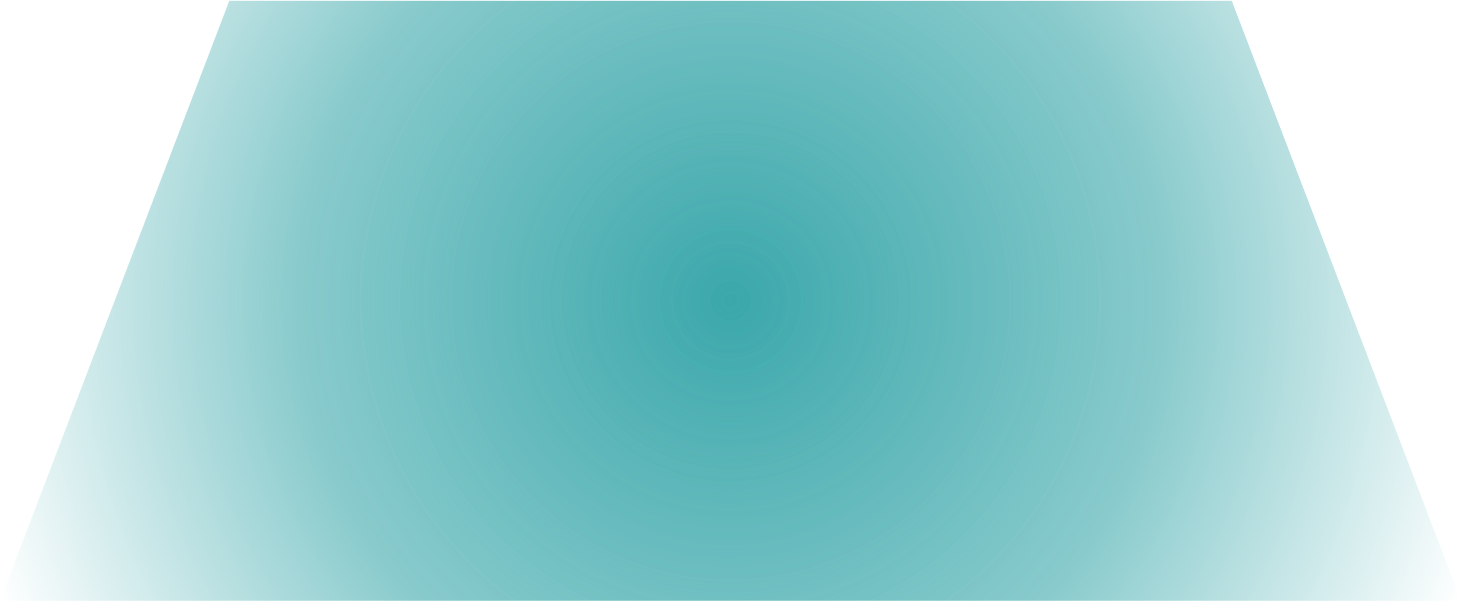
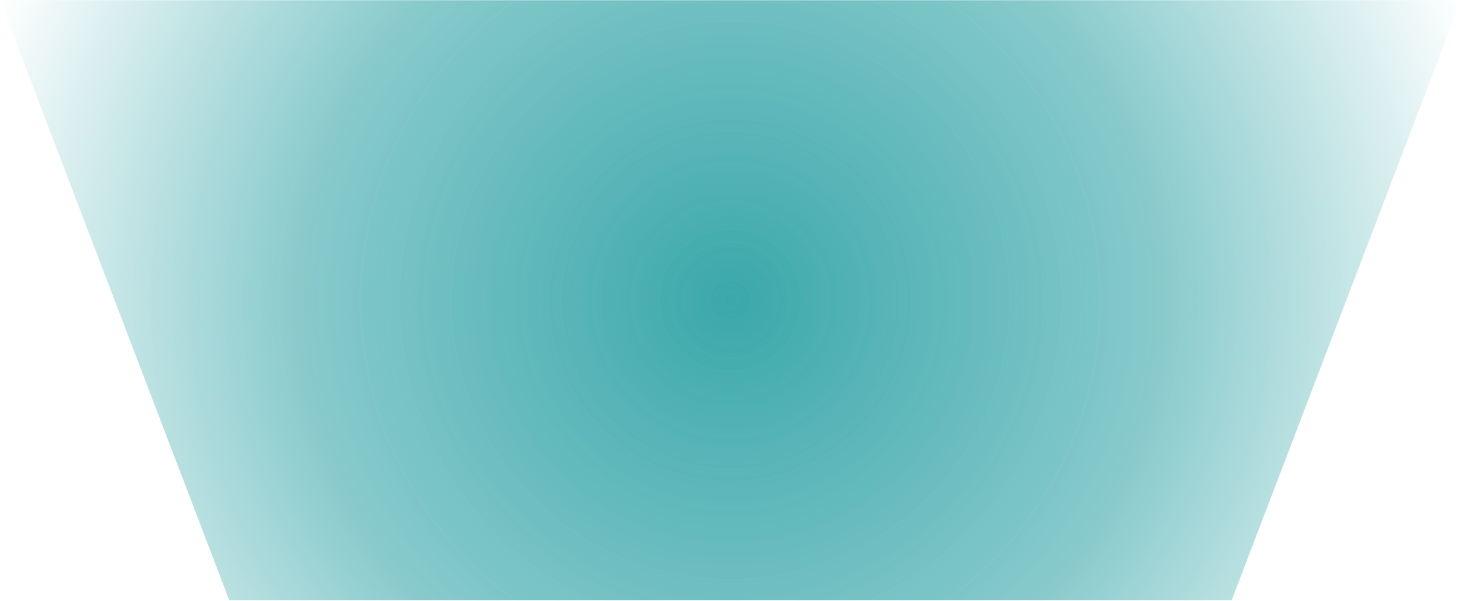
修复提示框布局

Changed region(s): [[0.0308, 0.5092, 0.9856, 1.0], [0.8316, 0.0, 0.9856, 0.4792], [0.0308, 0.0, 0.154, 0.4792]]

diff --git a/src/main/resources/static/js/login.js b/src/main/resources/static/js/login.js
@@ -2,6 +2,9 @@ var url = "http://localhost:7004";
 function reg() {
     window.location.href = url + "/register";
 }
+function tk() {
+    window.location.href = url + "/terms";
+}
 function checkEmail(s) {
     var re = /^(\w-*\.*)+@(\w-?)+(\.\w{2,})+$/;
     if (re.test(s)) return true;
@@ -37,7 +40,7 @@ function submit() {
                 fail(result.message);
                 return;
             }
-            $("#succ").animate({ left: "+=200%" }, "1s");
+            $("#succ").animate({ left: "+=200%" }, "2s");
             setTimeout(function () {
                 window.location.href = url;
             }, 1000);
@@ -63,7 +66,7 @@ function forget() {
                 fail(result.message);
                 return;
             }
-            $(".forg").animate({ top: "-=37%" }, "1s");
+            $(".forg").animate({ top: "+=37%" }, "1s");
             return;
         },
     });

diff --git a/src/main/resources/static/css/login.css b/src/main/resources/static/css/login.css
@@ -103,7 +103,7 @@ input:focus {
     height: 37%;
     width: 100%;
     position: relative;
-    top: 100%;
+    top: -74%;
     background-position: center, center;
     background-size: cover;
 }
@@ -124,4 +124,16 @@ input:focus {
     left: -100%;
     background-position: left, center;
     background-size: cover;
+}
+#tk {
+    position: absolute;
+    display: inline;
+    top: 95%;
+    left: 2%;
+    color: white;
+}
+#tk:hover {
+    cursor: pointer;
+    color: #f07d58;
+    text-decoration: underline;
 }

diff --git a/src/main/resources/templates/login.html b/src/main/resources/templates/login.html
@@ -153,6 +153,9 @@
             >
                 <div id="forg-cont">收到，请检查您的收件箱和垃圾邮件</div>
             </div>
+            <div id="tk" onclick="tk()">
+                使用本站，代表您已阅读并同意我们的服务条款
+            </div>
         </div>
     </body>
 </html>

diff --git a/src/main/resources/templates/terms.html b/src/main/resources/templates/terms.html
@@ -1,0 +1,10 @@
+<!DOCTYPE html>
+<html lang="en" xmlns:th="http://www.thymeleaf.org">
+    <head>
+        <meta charset="UTF-8" />
+        <title>imikuLive - 服务条款</title>
+    </head>
+    <body>
+        测试条款
+    </body>
+</html>

diff --git a/src/main/java/fun/imiku/live/controller/PageController.java b/src/main/java/fun/imiku/live/controller/PageController.java
@@ -16,4 +16,9 @@ public class PageController {
     public String loginPage() {
         return "login";
     }
+
+    @RequestMapping("/terms")
+    public String termsPage() {
+        return "terms";
+    }
 }
